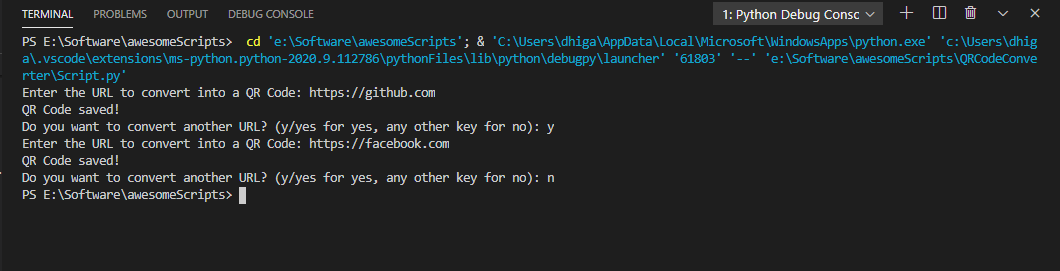
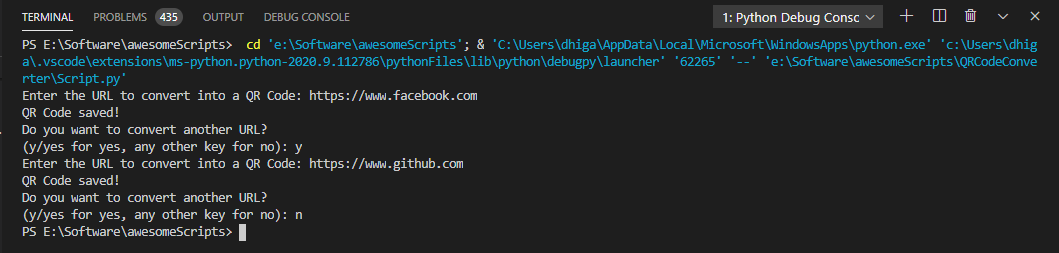
Edited Script.py to pass flake8 standards.

Changed region(s): [[0.0, 0.0277, 0.9972, 0.8024], [0.6544, 0.0, 0.9972, 0.1107], [0.0, 0.83, 0.2805, 0.9407]]

diff --git a/QRCodeConverter/Script.py b/QRCodeConverter/Script.py
@@ -1,14 +1,14 @@
-import pyqrcode 
-import png 
-from pyqrcode import QRCode 
-  
-  
+import pyqrcode
+# import png
+# from pyqrcode import QRCode
+
 
 def QRCodeConverter(url, count):
-
-    qr = pyqrcode.create(url) # Generating the QR code
-    qr.png(f'./QRCodeConverter/QRCode-{count}.png', scale = 6) # Saving the QR code as a PNG
+    qr = pyqrcode.create(url)  # Generating the QR code
+    # Saving the QR code as a PNG
+    qr.png(f'./QRCodeConverter/QRCode-{count}.png', scale=6)
     print("QR Code saved!")
+
 
 choice = 'y'
 count = 0
@@ -16,5 +16,5 @@ while(choice == 'y' or choice == 'yes'):
     count = count + 1
     url = input("Enter the URL to convert into a QR Code: ")
     QRCodeConverter(url, count)
-    choice = input('Do you want to convert another URL? (y/yes for yes, any other key for no): ')
-    
+    print('Do you want to convert another URL?')
+    choice = input('(y/yes for yes, any other key for no): ')

diff --git a/QRCodeConverter/README.md b/QRCodeConverter/README.md
@@ -2,17 +2,17 @@
 
 This is a simple Python script aimed at converting long or short website URLs into QR codes to be scanned.
 
-# Requirements
+## Requirements
 
 It is enough to run `pip install -r requirements.txt` to install all the requirements necessary for this script.
 
-# Usage
+## Usage
 
-Simply run `python Script.py` in your terminal and enter the URL to be converted into a QR code. 
+Simply run `python Script.py` in your terminal and enter the URL to be converted into a QR code.
 
-# Screenshots and sample QR codes:
+## Screenshots and sample QR codes
 
 ![Screenshot](Screenshot.png)
 
 QR code for [GitHub](https://www.github.com):  
-![QR Code](QRCode-1.png)
+![QR Code](QRCode-2.png)
